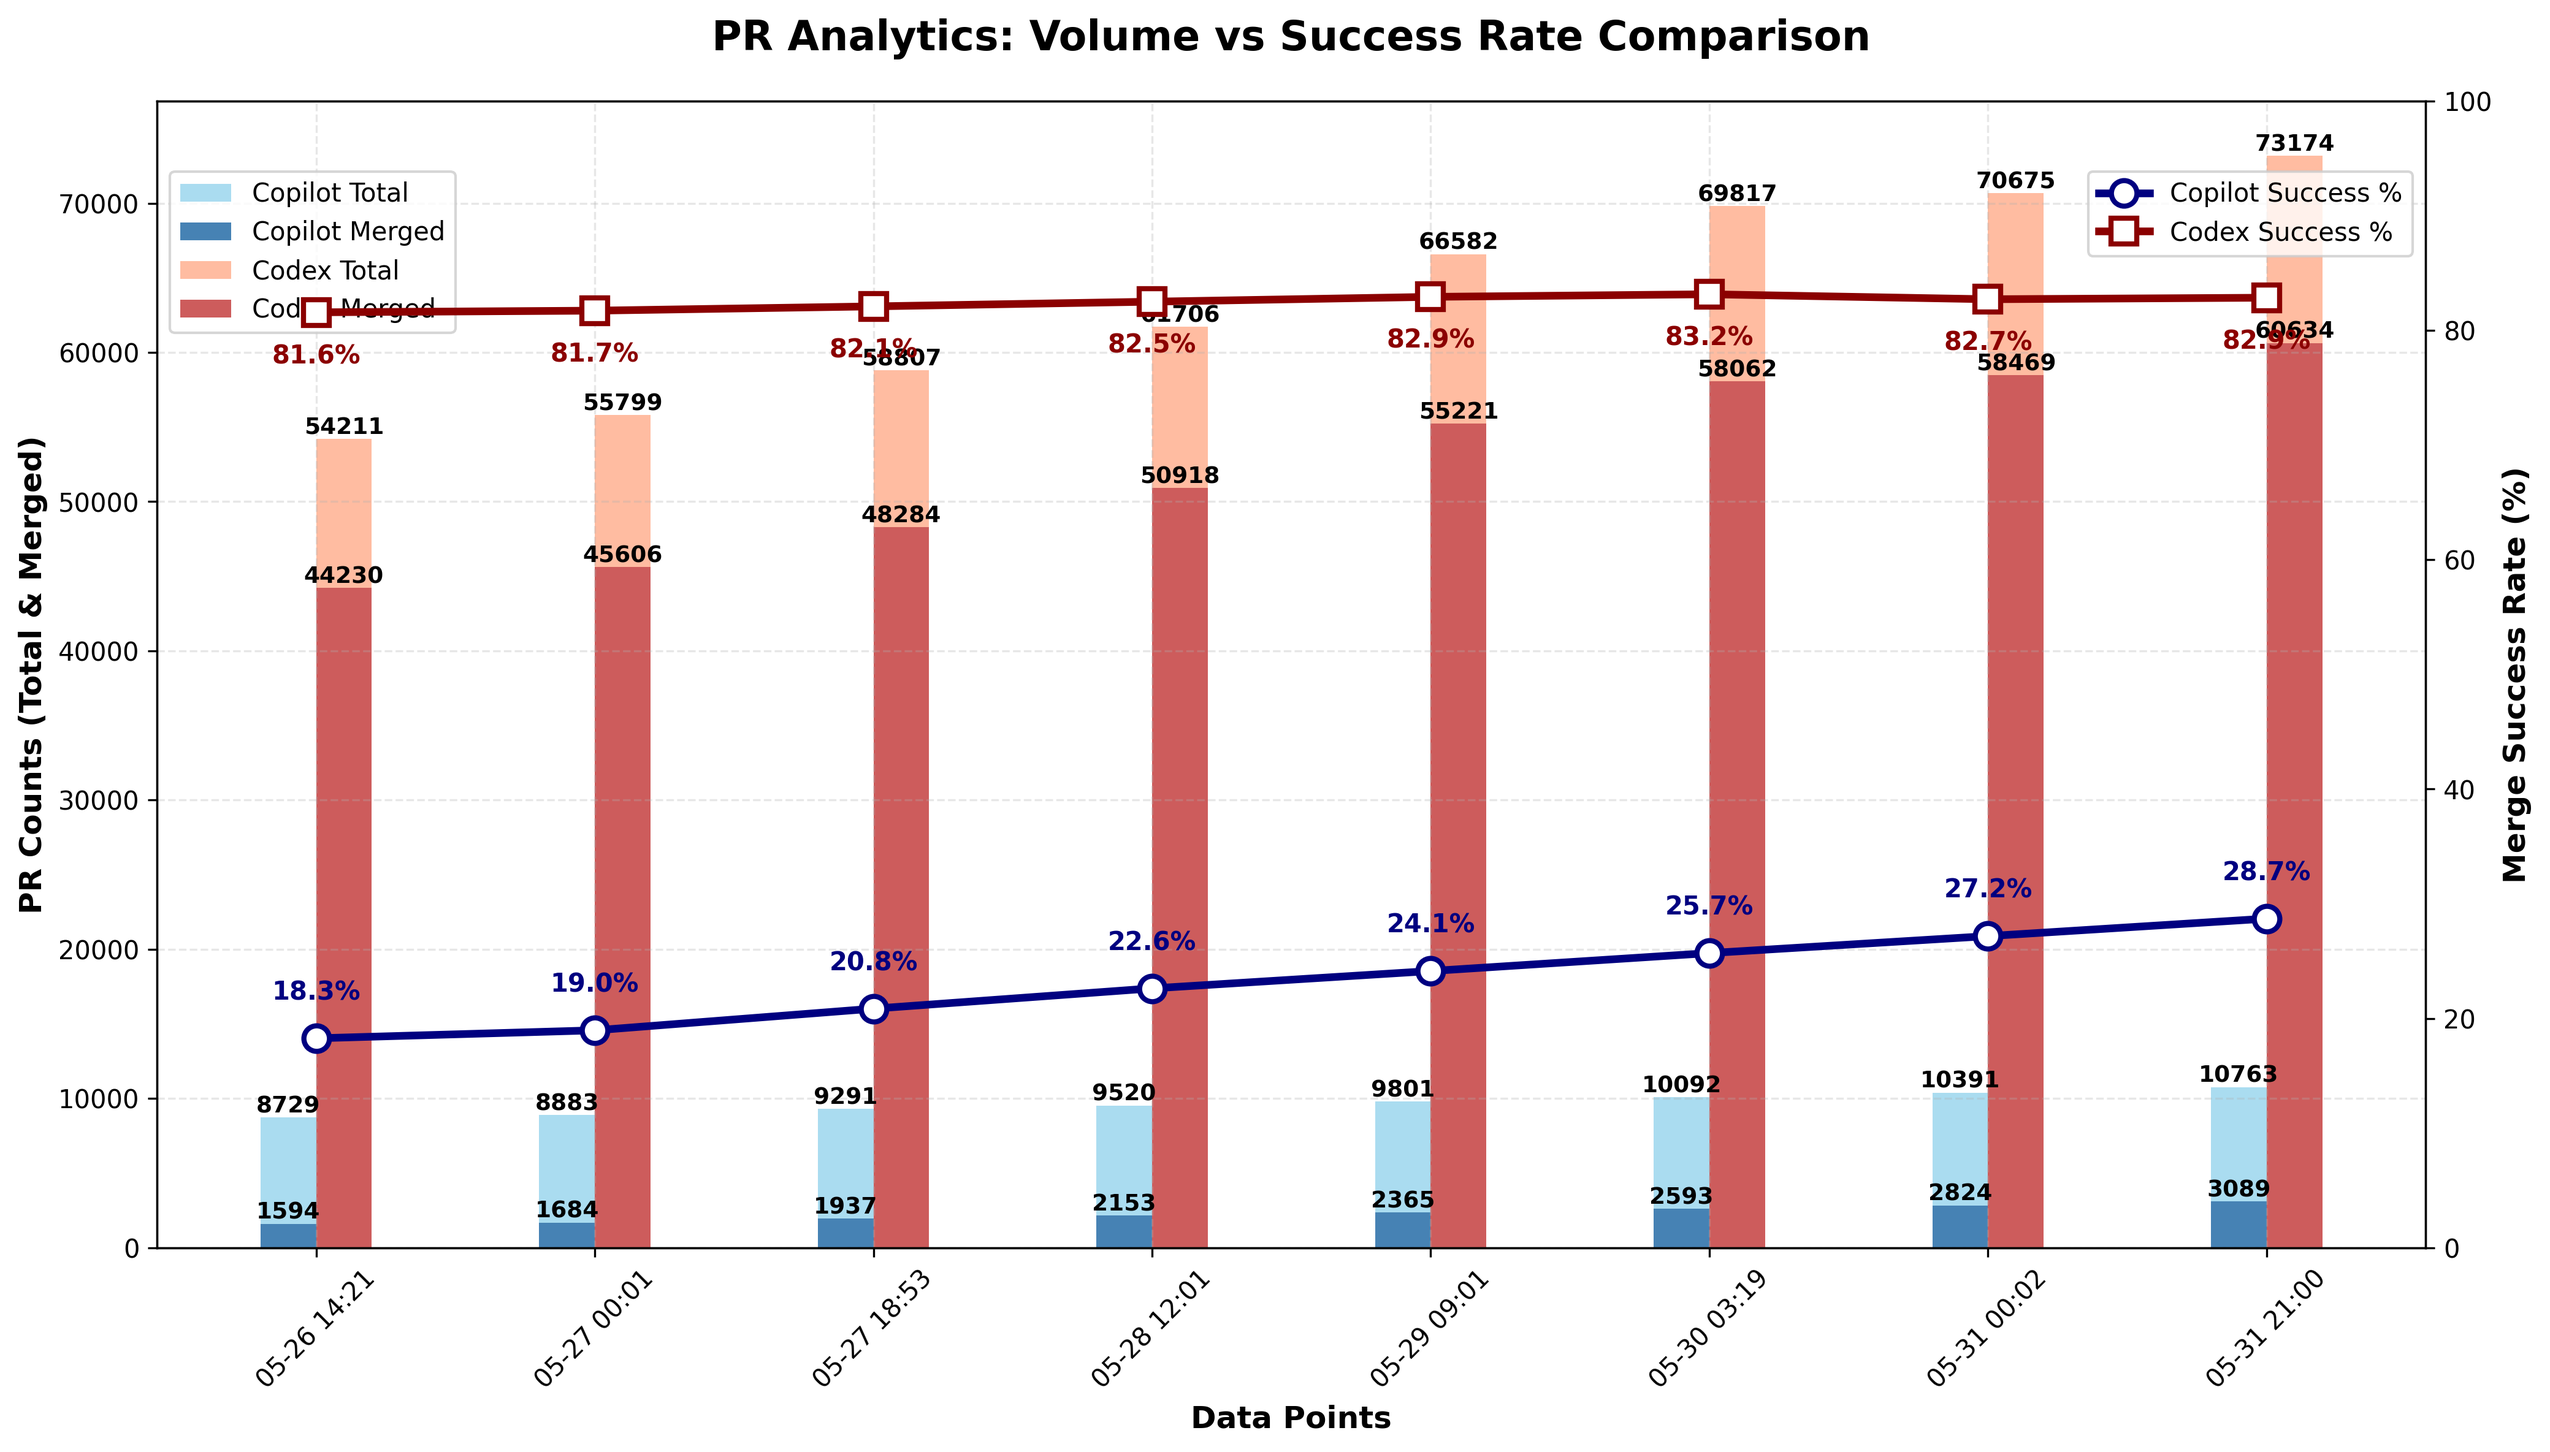
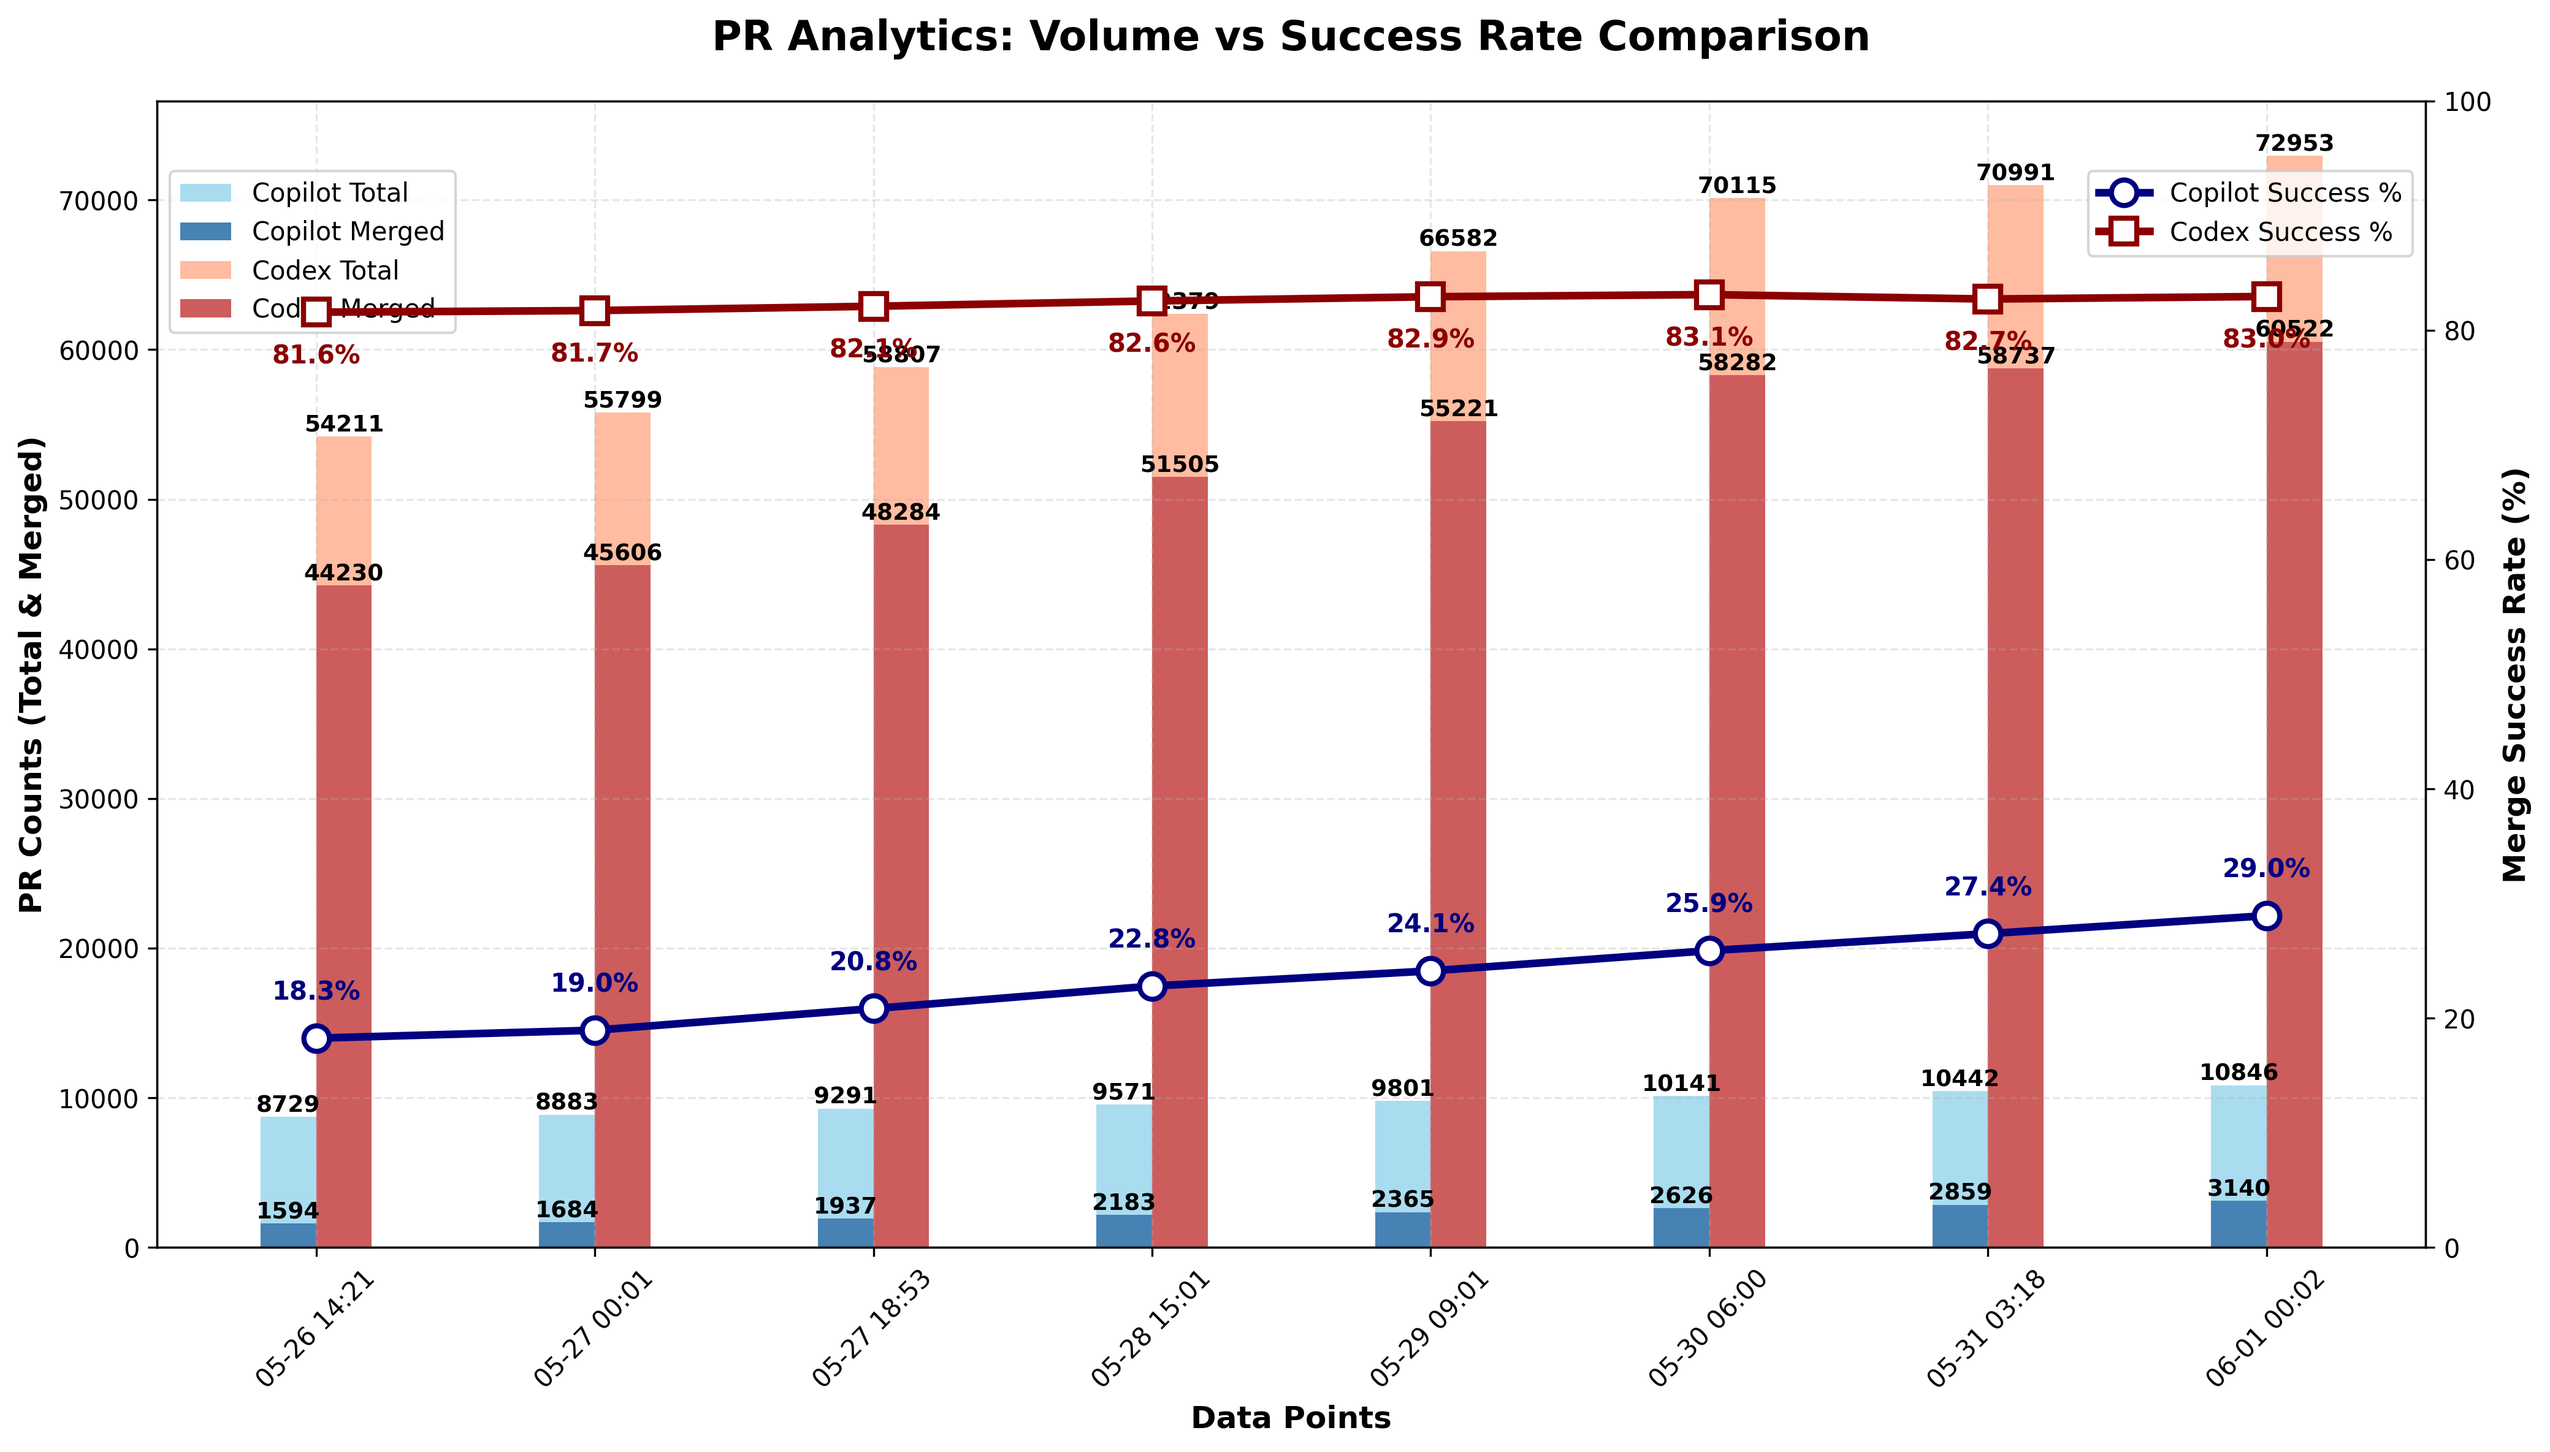
chore: update PR‑approval chart

diff --git a/docs/index.html b/docs/index.html
@@ -44,22 +44,22 @@
                 <tbody>
                     <tr>
                         <td>Copilot</td>
-                        <td>10,763</td>
-                        <td>3,089</td>
-                        <td>28.70%</td>
+                        <td>10,846</td>
+                        <td>3,140</td>
+                        <td>28.95%</td>
                     </tr>
                     <tr>
                         <td>Codex</td>
-                        <td>73,174</td>
-                        <td>60,634</td>
-                        <td>82.86%</td>
+                        <td>72,953</td>
+                        <td>60,522</td>
+                        <td>82.96%</td>
                     </tr>
                 </tbody>
             </table>
         </section>
 
         <footer>
-            <p>Last updated: <span id="last-updated">May 31, 2025 21:00 UTC</span></p>
+            <p>Last updated: <span id="last-updated">June 01, 2025 00:02 UTC</span></p>
             <p><a href="https://github.com/aavetis/ai-pr-watcher">View on GitHub</a></p>
         </footer>
     </div>

diff --git a/README.md b/README.md
@@ -19,5 +19,5 @@ Explore the GitHub search queries used:
 
 | Project | Total PRs | Merged PRs | Merge Rate |
 | ------- | --------- | ---------- | ---------- |
-| Copilot | 10,763 | 3,089 | 28.70% |
-| Codex   | 73,174 | 60,634 | 82.86% |
+| Copilot | 10,846 | 3,140 | 28.95% |
+| Codex   | 72,953 | 60,522 | 82.96% |
